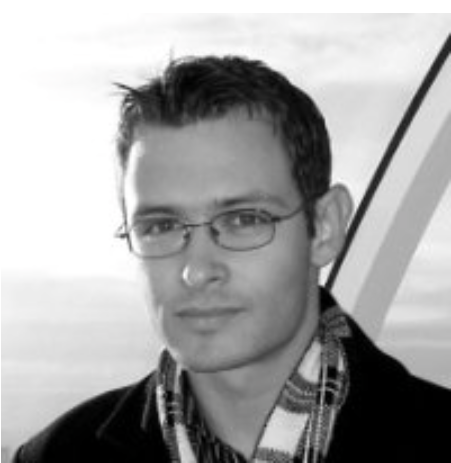
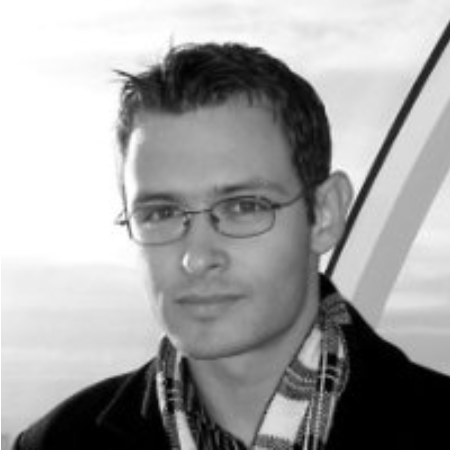
Judges added to expo.

diff --git a/expo.html b/expo.html
@@ -136,7 +136,7 @@
                 <p>
                     After 1 Minute Madness all teams will expo their projects for two hours.
                     Here judges and fellow students will have time to test each others projects.<br>
-                    Each team will be visited by a pair of judges, though the judges might come visit you and
+                    Each team will be visited by a pair of judges, though the judges might come visit an
                     additional time if they want to.
                 </p>
             </div>
@@ -185,20 +185,24 @@
         </div>
         <div class="row">
             <div class="col-sm-3">
-                <h4>Name</h4>
-                <p>Picture</p>
+                <img src="img/judge/Eve_Hoggan.png" alt="AUHack Judge Eve Hoggan">
+                <h4>Eve Hoggan</h4>
+                <p>Associate professor, Department of Computer Science</p>
             </div>
             <div class="col-sm-3">
-                <h4>Name</h4>
-                <p>Picture</p>
+                <img src="img/judge/Kasper_Løvborg.png" alt="AUHack Judge Kasper Løvborg">
+                <h4>Kasper Løvborg</h4>
+                <p>Associate professor, AU School of Engineering & ORBIT Lab</p>
             </div>
             <div class="col-sm-3">
-                <h4>Name</h4>
-                <p>Picture</p>
+                <img src="img/judge/Lone_Koefoed_new.png" alt="AUHack Judge Lone Koefoed">
+                <h4>Lone Koefoed</h4>
+                <p>Associate professor, Department of Digital Design and Information studies</p>
             </div>
             <div class="col-sm-3">
-                <h4>Name</h4>
-                <p>Picture</p>
+                <img src="img/judge/Pernille_Thorsen.png" alt="AUHack Judge Pernille Thorsen">
+                <h4>Pernille Thorsen</h4>
+                <p>Technical Project Manager, Aarhus Municipality</p>
             </div>
         </div>
     </div>
